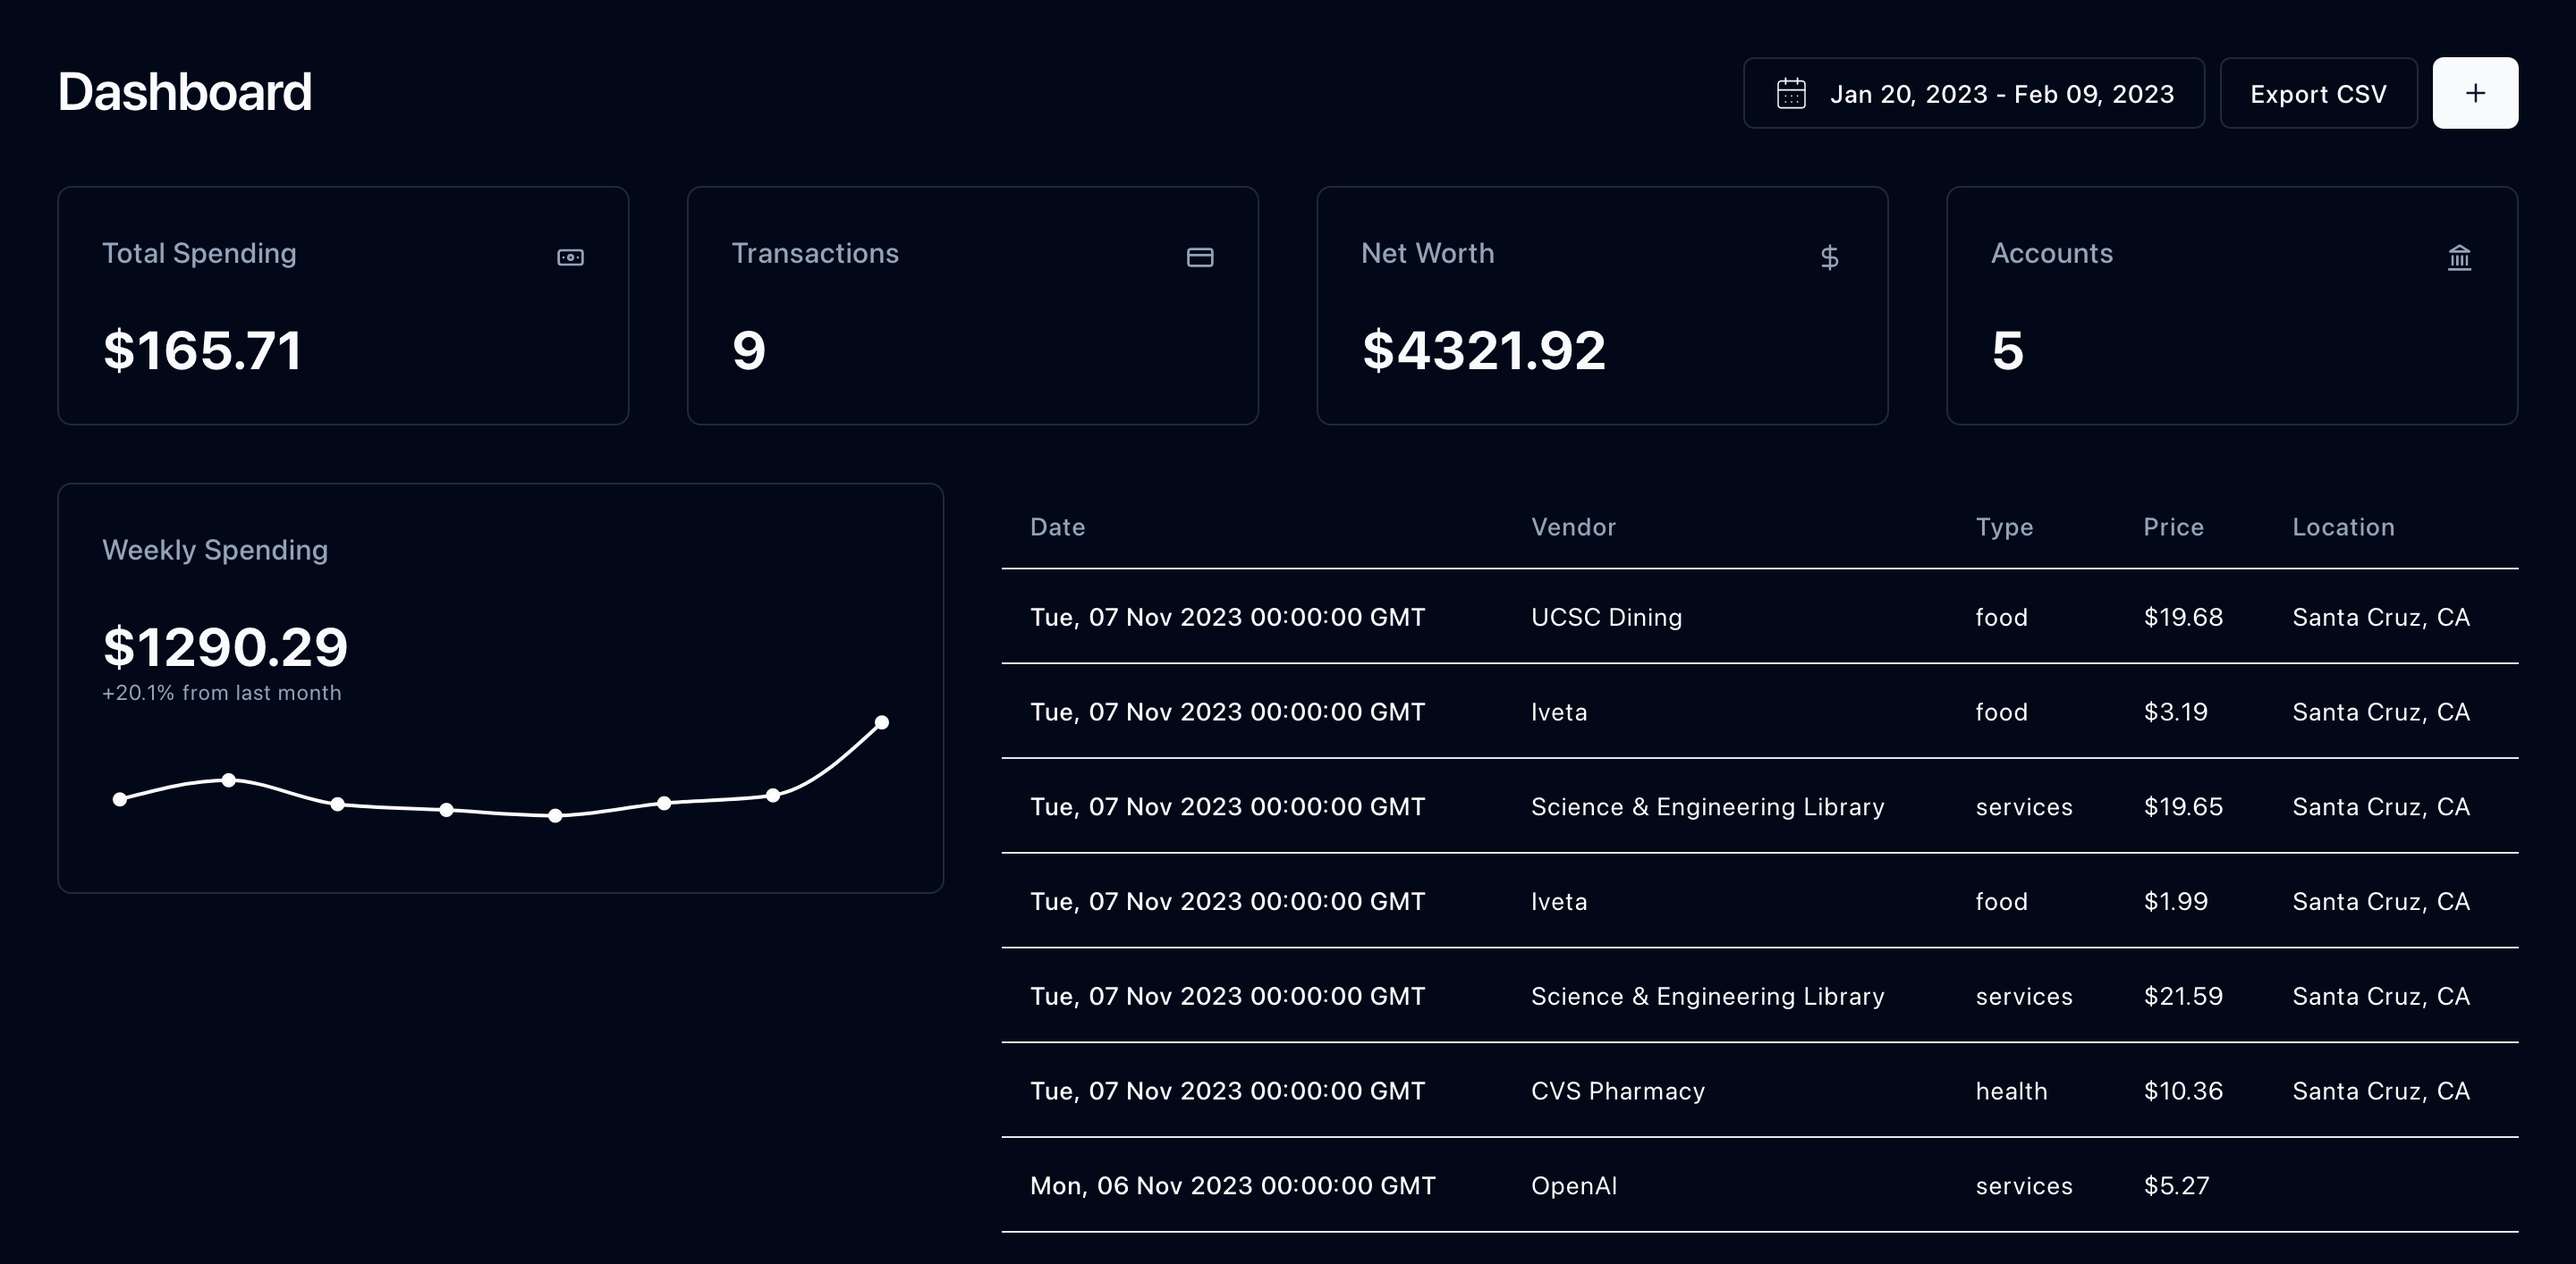
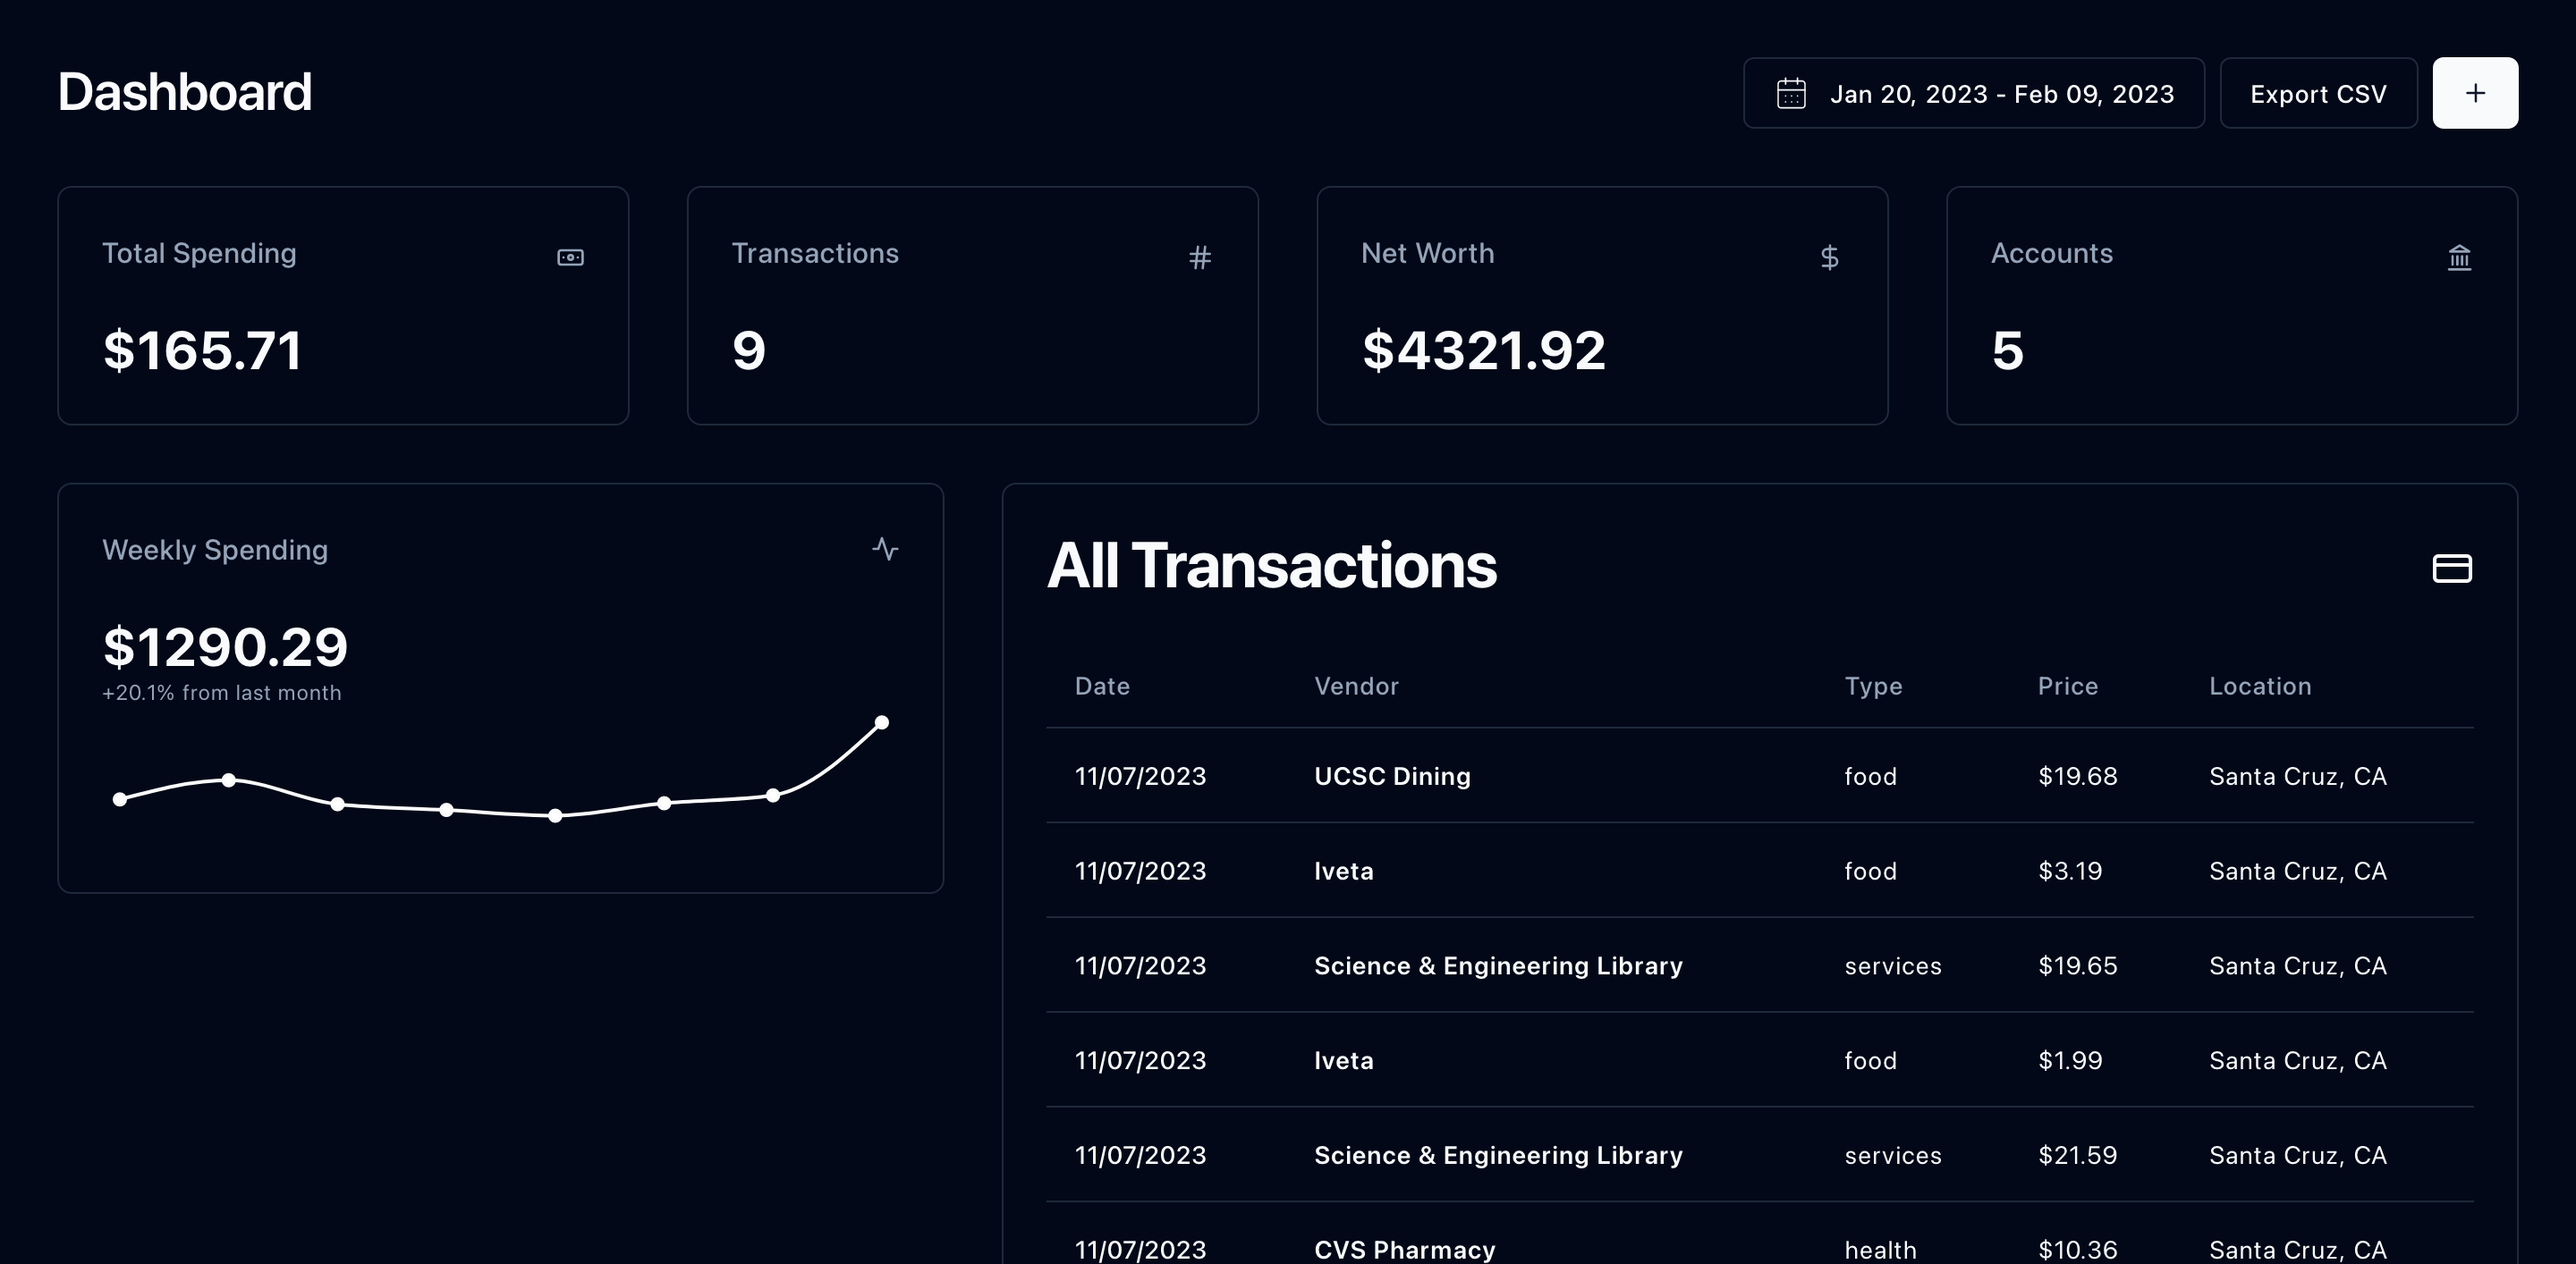
feat: transactions table in card, clean up ui

diff --git a/src/components/transactions-table.tsx b/src/components/transactions-table.tsx
@@ -11,6 +11,9 @@ import {
 } from './ui/table';
 import { Skeleton } from './ui/skeleton';
 import { ExpenseResponse, FormattedExpense } from '@/lib/apitypes';
+import moment from 'moment-timezone';
+import { Card, CardContent, CardHeader, CardTitle } from './ui/card';
+import { CreditCard } from 'lucide-react';
 
 export default function TransactionsTable() {
   const { data, error, isLoading } = useSWR('/api/expense', (url) =>
@@ -18,33 +21,44 @@ export default function TransactionsTable() {
   );
 
   return (
-    <Table>
-      <TableHeader>
-        <TableRow>
-          <TableHead>Date</TableHead>
-          <TableHead>Vendor</TableHead>
-          <TableHead>Type</TableHead>
-          <TableHead>Price</TableHead>
-          <TableHead>Location</TableHead>
-        </TableRow>
-      </TableHeader>
-      <TableBody>
-        {isLoading
-          ? null
-          : (data as ExpenseResponse).transactions.map((val, _) => (
-              <TableRow>
-                <TableCell className="font-medium">
-                  {/* Our screenshots are uploaded in PST, but then they get treated as UTC by the API,
+    <Card className="border-muted">
+      <CardHeader className="flex flex-row items-center justify-between">
+        <CardTitle className="text-4xl font-bold">All Transactions</CardTitle>
+        <CreditCard className="text-foreground" />
+      </CardHeader>
+
+      <CardContent>
+        <Table>
+          <TableHeader>
+            <TableRow className="border-b-muted">
+              <TableHead>Date</TableHead>
+              <TableHead>Vendor</TableHead>
+              <TableHead>Type</TableHead>
+              <TableHead>Price</TableHead>
+              <TableHead>Location</TableHead>
+            </TableRow>
+          </TableHeader>
+          <TableBody>
+            {isLoading
+              ? null
+              : (data as ExpenseResponse).transactions.map((val, _) => (
+                  <TableRow className="border-b-muted">
+                    <TableCell className="font-medium">
+                      {/* Our screenshots are uploaded in PST, but then they get treated as UTC by the API,
                   but then converting back to PST here results in losing days */}
-                  {new Date(val.date).toUTCString()}
-                </TableCell>
-                <TableCell>{val.vendor}</TableCell>
-                <TableCell>{val.expenseType}</TableCell>
-                <TableCell>${val.price.toFixed(2)}</TableCell>
-                <TableCell>{val.location}</TableCell>
-              </TableRow>
-            ))}
-      </TableBody>
-    </Table>
+                      {moment(val.date).utc(false).format('MM/DD/YYYY')}
+                    </TableCell>
+                    <TableCell className="font-semibold">
+                      {val.vendor}
+                    </TableCell>
+                    <TableCell>{val.expenseType}</TableCell>
+                    <TableCell>${val.price.toFixed(2)}</TableCell>
+                    <TableCell>{val.location}</TableCell>
+                  </TableRow>
+                ))}
+          </TableBody>
+        </Table>
+      </CardContent>
+    </Card>
   );
 }

diff --git a/src/components/weekly-spending.tsx b/src/components/weekly-spending.tsx
@@ -5,6 +5,7 @@ import { Card, CardContent, CardHeader, CardTitle } from './ui/card';
 import { useTheme } from 'next-themes';
 import { useConfig } from '@/hooks/use-config';
 import { themes } from '@/registry/themes';
+import { Activity, MoveUpRight } from 'lucide-react';
 
 const data = [
   {
@@ -50,8 +51,9 @@ export default function WeeklySpending() {
   return (
     <Card className="col-span-3 border-muted">
       <CardHeader>
-        <CardTitle className="text-base font-medium text-muted-foreground">
+        <CardTitle className="flex flex-row items-center justify-between text-base font-medium text-muted-foreground">
           Weekly Spending
+          <Activity className="w-4 h-4 text-muted-foreground" />
         </CardTitle>
       </CardHeader>
       <CardContent>

diff --git a/src/components/info-card-container.tsx b/src/components/info-card-container.tsx
@@ -3,7 +3,7 @@
 import { ExpenseResponse } from '@/lib/apitypes';
 import InfoCard from './info-card';
 import { Skeleton } from './ui/skeleton';
-import { Banknote, CreditCard, DollarSign, Landmark } from 'lucide-react';
+import { Banknote, CreditCard, DollarSign, Hash, Landmark } from 'lucide-react';
 
 import useSWR from 'swr';
 
@@ -34,7 +34,7 @@ export default function InfoCardContainer() {
             (data as ExpenseResponse).transactions.length
           )
         }
-        Icon={CreditCard}
+        Icon={Hash}
       />
       <InfoCard title="Net Worth" value="$4321.92" Icon={DollarSign} />
       <InfoCard title="Accounts" value="5" Icon={Landmark} />

diff --git a/src/app/api/expense/route.ts b/src/app/api/expense/route.ts
@@ -25,12 +25,6 @@ export async function GET(request: Request) {
     transactions: [],
   };
 
-  // const totalSpending = await sql`SELECT SUM(price) from transactions;`;
-  // const transactions = await sql`SELECT * FROM transactions;`;
-  // console.log(transactions);
-
-  // expenseResponse.spending = totalSpending[0].sum.slice(0, -2);
-
   const totalSpending = await db
     .selectFrom('transactions')
     .select(({ fn }) => [fn.sum<number>('transactions.price').as('totalPrice')])
